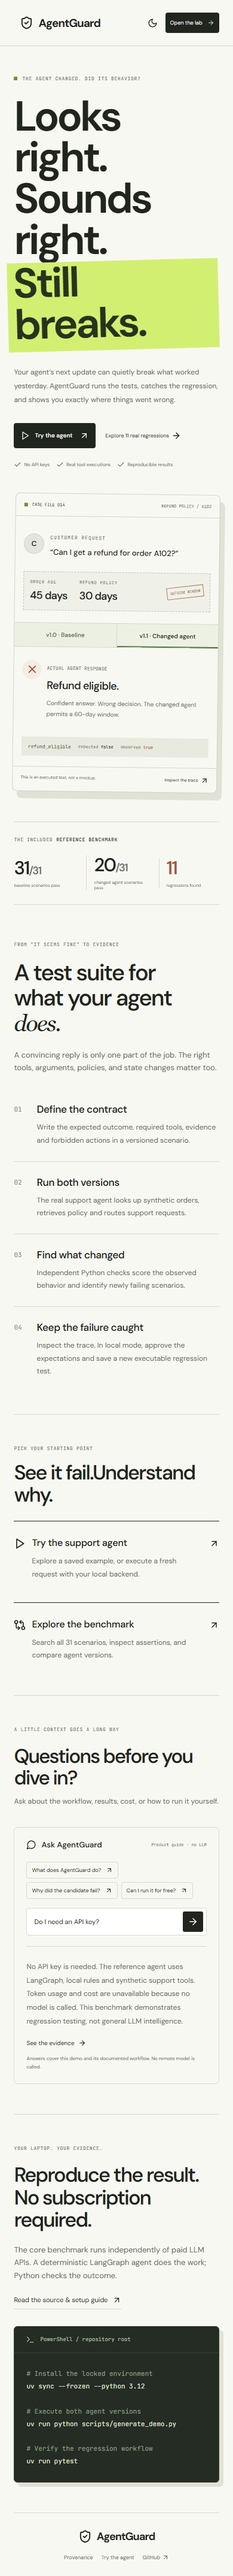
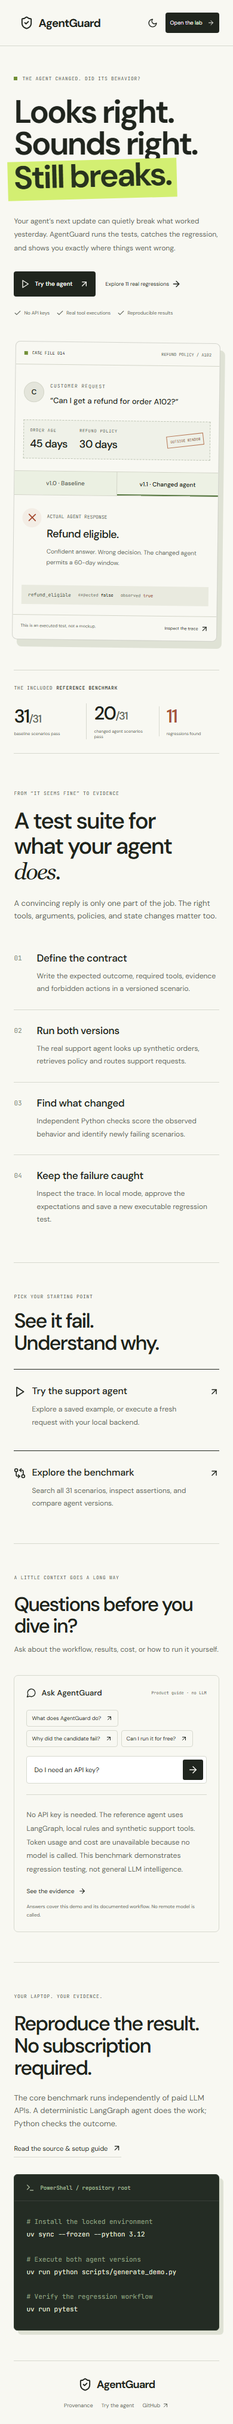
fix(ui): refine mobile hero and document verified public deployment

Changed region(s): [[0.0308, 0.0, 0.9846, 0.9965], [0.7077, 0.654, 0.8308, 0.6851]]

diff --git a/apps/web/src/welcome.css b/apps/web/src/welcome.css
@@ -1119,7 +1119,7 @@
     font-size: 34px;
   }
   .choose-path h2 br {
-    display: none;
+    display: initial;
   }
   .choose-path b {
     font-size: 16px;
@@ -1207,8 +1207,8 @@
     letter-spacing: 0.7px;
   }
   .hero-copy h1 {
-    font-size: 70px;
-    letter-spacing: -4px;
+    font-size: 54px;
+    letter-spacing: -3px;
   }
   .hero-copy > p {
     font-size: 12px;

diff --git a/README.md b/README.md
@@ -6,7 +6,9 @@
 
 A reproducible evaluation lab for tool-using agents. Execute a real reference agent, score observed behavior, compare versions, inspect the evidence, and turn a reviewed failure into a regression test. The core benchmark runs locally without API keys, hosted services, or a paid LLM.
 
-**Source:** [hamza2324/agentguard](https://github.com/hamza2324/agentguard). The public site includes a product introduction, a real before/after example, a support-agent playground and an explanatory product guide. Hosted workflow status is recorded in [verification status](docs/STATUS.md).
+[![CI](https://github.com/hamza2324/agentguard/actions/workflows/ci.yml/badge.svg)](https://github.com/hamza2324/agentguard/actions/workflows/ci.yml)
+
+**[Open the live website ?](https://hamza2324.github.io/agentguard/)** ? [Source code](https://github.com/hamza2324/agentguard). The public site includes a product introduction, a real before/after example, a support-agent playground and an explanatory product guide. Hosted workflow status is recorded in [verification status](docs/STATUS.md).
 
 ## See the regression
 
@@ -171,7 +173,7 @@ npm.cmd test
 npm.cmd audit --audit-level=moderate
 ```
 
-Verified locally: **19 Python tests; 14 browser tests passed, 2 duplicate mobile integrations intentionally skipped**. Browser checks include the real backend and a repository-subpath server. TypeScript build, ESLint, Ruff and snapshot integrity validation pass. npm audit reported zero vulnerabilities after updating development tooling and overriding the affected minimatch dependency to its patched release; pip-audit reported no known Python vulnerabilities. See [validation status](docs/STATUS.md). These checks do not establish that hosted CI has run.
+Verified locally: **19 Python tests; 14 browser tests passed, 2 duplicate mobile integrations intentionally skipped**. Browser checks include the real backend and a repository-subpath server. TypeScript build, ESLint, Ruff and snapshot integrity validation pass. npm audit reported zero vulnerabilities after updating development tooling and overriding the affected minimatch dependency to its patched release; pip-audit reported no known Python vulnerabilities. See [validation status](docs/STATUS.md). Hosted CI, deterministic evaluation and GitHub Pages deployment also succeeded on main; see [workflow runs](https://github.com/hamza2324/agentguard/actions).
 
 ## Deployment
 

diff --git a/docs/STATUS.md b/docs/STATUS.md
@@ -13,10 +13,15 @@ Implemented and tested locally on 2026-11-09. This document distinguishes local 
 - Actual desktop/mobile screenshots captured and visually inspected. Mobile tables scroll horizontally within the panel without page overflow.
 - Git and GitHub CLI installed. Existing Git Credential Manager authentication was verified as `hamza2324` and reused in process memory for GitHub operations; no additional login was needed.
 - Coherent local commits use the explicit automation identity `AgentGuard local build <build@localhost>`, without guessing the user's author identity.
-- Workflow YAML was parsed locally; actionlint binary download failed with HTTP 504, so actionlint and hosted workflow execution are not claimed.
-- Public repository created: https://github.com/hamza2324/agentguard. Hosted workflow and Pages results will be recorded after execution.
+- Workflow YAML was parsed locally; actionlint binary download failed with HTTP 504, so actionlint is not claimed. Hosted workflows were separately executed successfully.
+- Public repository: https://github.com/hamza2324/agentguard. Public Pages: https://hamza2324.github.io/agentguard/. CI, deterministic evaluation and Pages publication completed successfully on GitHub Actions.
+  - CI: https://github.com/hamza2324/agentguard/actions/runs/42584442926
+  - Deterministic evaluation: https://github.com/hamza2324/agentguard/actions/runs/42584443176
+  - Pages: https://github.com/hamza2324/agentguard/actions/runs/42584442932
 - Docker and PostgreSQL integration have not been executed.
 
 The larger master brief is not fully implemented: multi-user projects/configuration management, Alembic migrations, optional LLM judge, OTLP export and stochastic experiment aggregation are deferred. The working vertical slice prioritizes the reproducible interview workflow.
 
 Homepage redesign: narrative hero, real baseline/candidate example, workflow explanation, setup section, and explanatory Ask AgentGuard guide. Playground supports transparent static replay plus fresh local support requests. Backend input validation and desktop/mobile request execution are tested.
+
+The prior assumption that a separate GitHub CLI login was required was corrected: the existing Git credential helper successfully authenticated GitHub operations.

diff --git a/CHANGELOG.md b/CHANGELOG.md
@@ -9,3 +9,11 @@
 - Python and browser regression tests; CI and Pages workflow definitions.
 
 Deployment status must be checked separately; workflow files alone do not establish publication.
+
+## Homepage and playground update ? 2026-11-09
+
+- Reused existing Git Credential Manager authentication and published the repository and GitHub Pages site.
+- Added a narrative homepage, real interactive regression example, workflow introduction, setup guide and Ask AgentGuard product guide.
+- Added a support-agent playground with honest public replay and fresh local typed requests.
+- Verified 19 Python tests and 14 desktop/mobile browser tests, with 2 duplicate mobile integrations skipped.
+- Hosted CI, deterministic evaluation and Pages workflows passed.

diff --git a/docs/DEPLOYMENT.md b/docs/DEPLOYMENT.md
@@ -1,5 +1,7 @@
 # GitHub publication
 
+Public website: https://hamza2324.github.io/agentguard/.
+
 Repository: https://github.com/hamza2324/agentguard. Existing Git Credential Manager authentication from the development environment was successfully reused. A separate `gh auth login` is not required when a credential helper already supplies GitHub credentials. During publication, the helper credential was passed to GitHub CLI through a process-local environment variable and was never printed or written into project files.
 
 The commands below are fallback instructions for a fresh machine without that configured authentication. Hosted execution status is recorded in STATUS.md.
